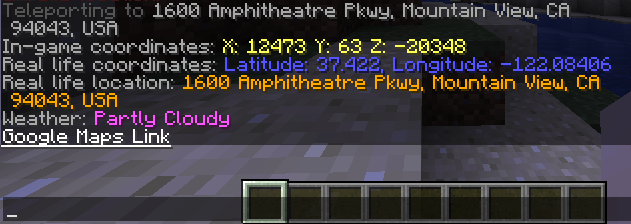
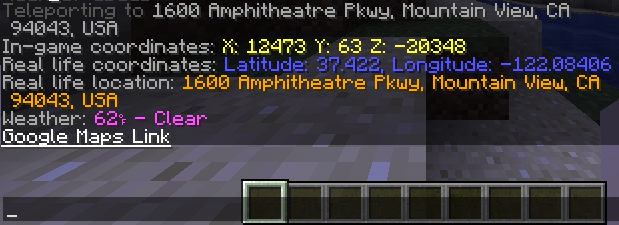
add /forecast command

diff --git a/src/main/java/me/danbeneventano/weather/cmd/ForecastCommand.java b/src/main/java/me/danbeneventano/weather/cmd/ForecastCommand.java
@@ -1,0 +1,56 @@
+package me.danbeneventano.weather.cmd;
+
+import com.google.common.collect.Lists;
+import me.danbeneventano.weather.WeatherPlugin;
+import me.danbeneventano.weather.player.WeatherPlayer;
+import me.danbeneventano.weather.util.ForecastRequester;
+import org.bukkit.command.Command;
+import org.bukkit.command.CommandExecutor;
+import org.bukkit.command.CommandSender;
+import org.bukkit.entity.Player;
+import tk.plogitech.darksky.forecast.model.Forecast;
+
+import java.text.DecimalFormat;
+import java.time.ZoneId;
+import java.time.format.DateTimeFormatter;
+import java.time.format.FormatStyle;
+import java.time.format.TextStyle;
+import java.util.List;
+import java.util.Locale;
+import java.util.Optional;
+
+import static net.md_5.bungee.api.ChatColor.*;
+
+public class ForecastCommand implements CommandExecutor {
+
+    @Override
+    public boolean onCommand(CommandSender sender, Command command, String label, String[] args) {
+        if (!(sender instanceof Player)) return true;
+        Player player = (Player) sender;
+        WeatherPlayer wp = WeatherPlugin.instance().getWeatherPlayerManager().getWeatherPlayer(player.getUniqueId()).get();
+        List<Forecast> forecasts = Lists.newArrayList();
+        for (int i = 0; i < 6; i++) {
+            forecasts.add(getForecast(wp, i).get());
+        }
+
+        DateTimeFormatter formatter =
+                DateTimeFormatter.ofLocalizedDate(FormatStyle.SHORT)
+                        .withLocale(Locale.US)
+                        .withZone(ZoneId.systemDefault());
+
+        DecimalFormat decimalFormat = new DecimalFormat("###");
+
+        player.sendMessage(AQUA + ITALIC.toString() + "Forecast for " + wp.retrieveLocationString() + ":");
+        for (Forecast forecast : forecasts) {
+            String day = forecast.getCurrently().getTime().atZone(ZoneId.systemDefault()).getDayOfWeek().getDisplayName(TextStyle.FULL, Locale.US);
+            String date = formatter.format(forecast.getCurrently().getTime());
+            player.sendMessage(BLUE + day + " " + date + ": " + WHITE + decimalFormat.format(forecast.getCurrently().getTemperature()) + "\u2109 - " + forecast.getCurrently().getSummary());
+        }
+        return true;
+    }
+
+    private Optional<Forecast> getForecast(WeatherPlayer wp, int daysAhead) {
+        ForecastRequester requester = WeatherPlugin.instance().getForecastRequester();
+        return requester.getForecast(requester.generateRequest(wp.getLatitude(), wp.getLongitude(), daysAhead));
+    }
+}

diff --git a/src/main/java/me/danbeneventano/weather/util/ForecastRequester.java b/src/main/java/me/danbeneventano/weather/util/ForecastRequester.java
@@ -8,6 +8,8 @@ import tk.plogitech.darksky.forecast.model.Forecast;
 import tk.plogitech.darksky.forecast.model.Latitude;
 import tk.plogitech.darksky.forecast.model.Longitude;
 
+import java.time.Instant;
+import java.time.temporal.ChronoUnit;
 import java.util.Optional;
 
 public class ForecastRequester {
@@ -27,10 +29,30 @@ public class ForecastRequester {
         }
     }
 
-    private ForecastRequest generateRequest(Latitude latitude, Longitude longitude) {
+    public Optional<Forecast> getForecast(ForecastRequest request) {
+        try {
+            return Optional.of(client.forecast(request));
+        } catch (ForecastException e) {
+            e.printStackTrace();
+            Bukkit.getLogger().warning("Could not retrieve forecast from Dark Sky. Is your API key valid?");
+            return Optional.empty();
+        }
+    }
+
+    public ForecastRequest generateRequest(Latitude latitude, Longitude longitude) {
         return new ForecastRequestBuilder()
                 .key(new APIKey(WeatherPlugin.instance().getConfig().getString("darkSkyApiKey")))
                 .location(new GeoCoordinates(longitude, latitude))
+                .units(ForecastRequestBuilder.Units.us)
+                .language(ForecastRequestBuilder.Language.en).build();
+    }
+
+    public ForecastRequest generateRequest(Latitude latitude, Longitude longitude, int daysAhead) {
+        return new ForecastRequestBuilder()
+                .key(new APIKey(WeatherPlugin.instance().getConfig().getString("darkSkyApiKey")))
+                .location(new GeoCoordinates(longitude, latitude))
+                .units(ForecastRequestBuilder.Units.us)
+                .time(Instant.now().plus(daysAhead, ChronoUnit.DAYS))
                 .language(ForecastRequestBuilder.Language.en).build();
     }
 }

diff --git a/src/main/java/me/danbeneventano/weather/cmd/WeatherCommand.java b/src/main/java/me/danbeneventano/weather/cmd/WeatherCommand.java
@@ -28,11 +28,12 @@ public class WeatherCommand implements CommandExecutor {
         WeatherPlayer wp = WeatherPlugin.instance().getWeatherPlayerManager().getWeatherPlayer(player.getUniqueId()).get();
         if (args.length == 0) {
             DecimalFormat format = new DecimalFormat("###.#####");
+            DecimalFormat temperatureFormat = new DecimalFormat("###");
             sendMessages(player,
                     GRAY + "In-game coordinates: " + YELLOW + "X: " + wp.getGameLocation().getBlockX() + " Y: " + wp.getGameLocation().getBlockY() + " Z: " + wp.getGameLocation().getBlockZ(),
                     GRAY + "Real life coordinates: " + BLUE + "Latitude: " + format.format(wp.getLatitude().value()) + ", Longitude: " + format.format(wp.getLongitude().value()),
                     GRAY + "Real life location: " + GOLD + (wp.retrieveLocationString().isEmpty() ? "Unknown" : wp.retrieveLocationString()),
-                    GRAY + "Weather: " + LIGHT_PURPLE + wp.getForecast().getCurrently().getSummary());
+                    GRAY + "Weather: " + LIGHT_PURPLE + temperatureFormat.format(wp.getForecast().getCurrently().getTemperature()) + "\u2109 - " + wp.getForecast().getCurrently().getSummary());
             TextComponent mapsLink = new TextComponent("Google Maps Link");
             mapsLink.setUnderlined(true);
             mapsLink.setClickEvent(new ClickEvent(ClickEvent.Action.OPEN_URL, "https://maps.google.com/maps?q=" + wp.getLatitude().value() + "," + wp.getLongitude().value()));

diff --git a/src/main/java/me/danbeneventano/weather/WeatherPlugin.java b/src/main/java/me/danbeneventano/weather/WeatherPlugin.java
@@ -1,5 +1,6 @@
 package me.danbeneventano.weather;
 
+import me.danbeneventano.weather.cmd.ForecastCommand;
 import me.danbeneventano.weather.cmd.WeatherCommand;
 import me.danbeneventano.weather.listener.PlayerListener;
 import me.danbeneventano.weather.player.WeatherPlayerManager;
@@ -31,6 +32,7 @@ public class WeatherPlugin extends JavaPlugin {
         getServer().getPluginManager().registerEvents(new PlayerListener(), this);
         Bukkit.getOnlinePlayers().forEach(player -> weatherPlayerManager.addWeatherPlayer(player));
         getCommand("weather").setExecutor(new WeatherCommand());
+        getCommand("forecast").setExecutor(new ForecastCommand());
     }
 
     @Override

diff --git a/README.md b/README.md
@@ -8,7 +8,8 @@ Spigot plugin that converts in-game coordinates to real coordinates then synchro
 
 ## Screenshot
 
-![Screenshot](https://github.com/danbeneventano/minecraft-weather-sync/blob/master/screenshot.png?raw=true)
+![/weather](https://github.com/danbeneventano/minecraft-weather-sync/blob/master/screenshot.png?raw=true)
+![/forecast](https://github.com/danbeneventano/minecraft-weather-sync/blob/master/screenshot2.png?raw=true)
 
 ## Obtaining API keys
 
